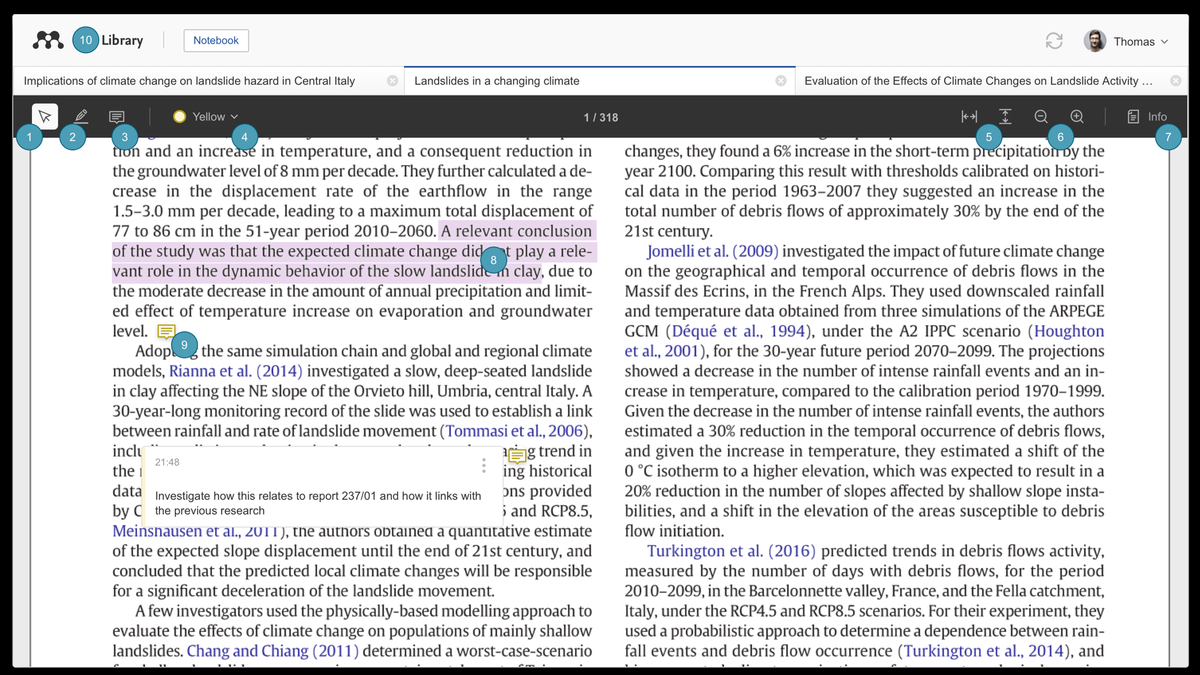
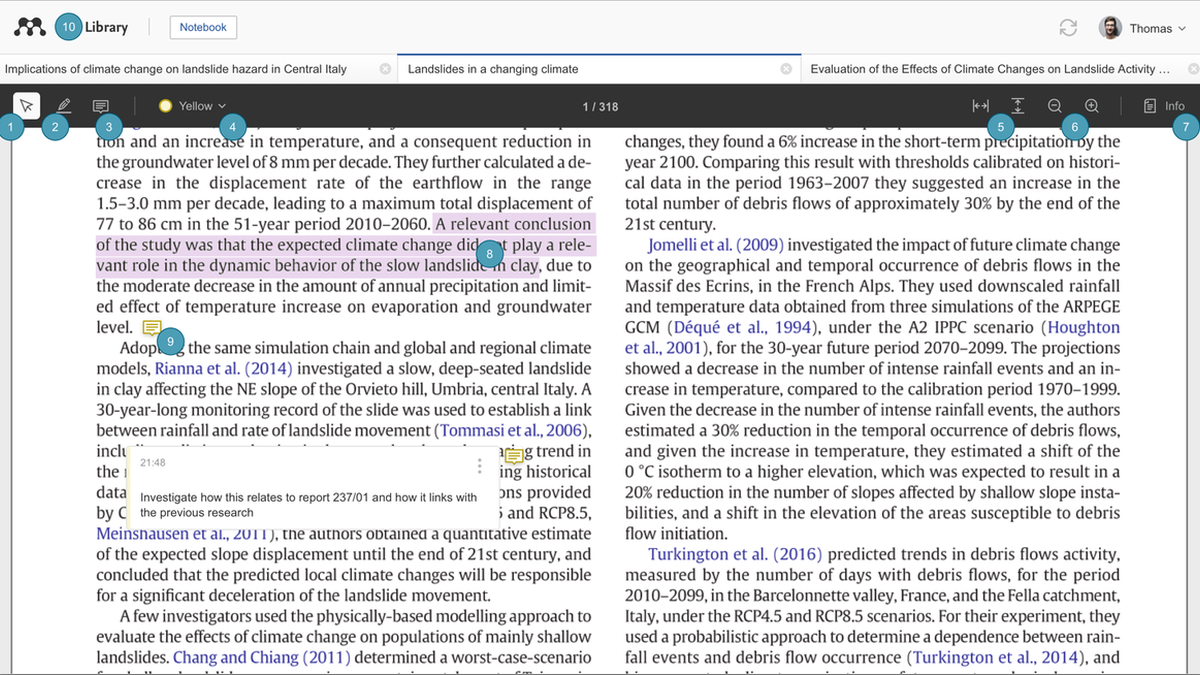
fix: rapikan copy dan crop screenshot deck

diff --git a/build.py b/build.py
@@ -82,7 +82,7 @@ s=slide(BG)
 pic(s,icon('MdLibraryBooks',FLOWER,PC,ON_PC),20.6,2.6,12,'Ilustrasi Mendeley')
 pic(s,icon('MdFormatQuote',CLOVER,TC,ON_TC),29.0,14.7,4.2,'Ikon kutipan')
 box(s,2.0,3.0,8.4,1.6,PC,0.8,name='label');tx(s,2.0,3.0,8.4,1.6,'Bahasa Indonesia',18,ON_PC,True,'center','middle')
-tx(s,2.0,4.4,18,7.8,'Implementasi aplikasi Mendeley dalam penulisan karya ilmiah',44,TX,True,name='judul')
+tx(s,2.0,4.4,18,7.8,'Implementasi Mendeley dalam penulisan karya ilmiah',44,TX,True,name='judul')
 tx(s,2.0,13.4,18,1,'Mata kuliah Bahasa Indonesia',20,P,True)
 notes(s,'Salam pembuka. Perkenalkan topik: cara Mendeley dipakai untuk menyusun kutipan dan daftar pustaka karya ilmiah.')
 # 2 anggota
@@ -100,16 +100,16 @@ page(s)
 notes(s,'Sebutkan anggota kelompok satu per satu sesuai urutan NIM.')
 # 3 latar belakang
 s=frame(0,'Sitasi manual rawan salah dan lambat')
-card3(s,4.0,8.2,[('MdFormatAlignLeft','Format berbeda','Gaya sitasi berbeda antarparagraf karena diketik satu per satu.'),
+card3(s,4.0,8.2,[('MdFormatAlignLeft','Format berbeda','Gaya sitasi bisa berbeda antarbagian karena diketik satu per satu.'),
  ('MdLinkOff','Sumber terlupa','Kutipan ada di naskah, tetapi rujukannya tidak masuk daftar pustaka.'),
  ('MdCompareArrows','Daftar tak cocok','Isi daftar pustaka tidak sama dengan sumber yang dikutip di teks.')],[(CARD,PC,ON_PC,TX)]*3)
 box(s,X0,13.0,W,5.0,PC,1.4)
 pic(s,icon('MdTimer',SUNNY,P,'FFFFFF'),X0+1.0,14.2,2.6,'Ikon waktu')
-tx(s,X0+4.4,13.4,W-5.4,4.2,'Menulis kutipan dan daftar pustaka secara manual menyita waktu. Sumber yang tidak tercantum dapat dinilai sebagai plagiarisme, sehingga kesalahan kecil pun berisiko.',22,ON_PC,False,valign='middle')
+tx(s,X0+4.4,13.4,W-5.4,4.2,'Menulis kutipan dan daftar pustaka secara manual memakan waktu. Sumber yang lupa dicantumkan bisa dianggap plagiarisme.',22,ON_PC,False,valign='middle')
 notes(s,'Mahasiswa sering salah pada tiga hal: format kutipan tidak seragam, sumber lupa dicantumkan, dan daftar pustaka tidak cocok dengan isi. Semua itu berkaitan dengan etika kutipan dan plagiarisme yang kita pelajari di mata kuliah ini.')
 # 4 rumusan
 s=frame(0,'Rumusan masalah dan tujuan')
-for k,(ic,hd,its,pitch,fill,col,nb,nc) in enumerate([('MdQuestionAnswer','Rumusan masalah',['Bagaimana Mendeley diimplementasikan dalam penulisan karya ilmiah?','Apa manfaat dan keterbatasan Mendeley bagi mahasiswa?'],4.2,CARD,TX,P,'FFFFFF'),
+for k,(ic,hd,its,pitch,fill,col,nb,nc) in enumerate([('MdQuestionAnswer','Rumusan masalah',['Bagaimana cara mengimplementasikan Mendeley dalam penulisan karya ilmiah?','Apa manfaat dan keterbatasan Mendeley bagi mahasiswa?'],4.2,CARD,TX,P,'FFFFFF'),
  ('MdFlag','Tujuan',['Menjelaskan fungsi Mendeley.','Menguraikan langkah penggunaannya.','Menilai manfaat dan keterbatasannya.'],2.9,TC,ON_TC,ON_TC,'FFFFFF')]):
     x=X0+k*14.4;box(s,x,4.0,13.6,14.0,fill,1.4)
     clipped(s,'mask-04-tanya.png' if k==0 else 'mask-04-tujuan.png',x,4.0,13.6,14.0,'Masking tanda')
@@ -124,48 +124,44 @@ box(s,X0,4.0,10.0,14.0,PC,1.4)
 clipped(s,'mask-05-tiga.png',X0,4.0,10.0,14.0,'Masking angka tiga')
 pic(s,icon('MdLibraryBooks',FLOWER,P,'FFFFFF'),X0+1.2,4.9,3.6,'Ikon Mendeley')
 tx(s,X0+1.0,9.4,8,5.8,'Mendeley adalah aplikasi pengelola referensi dan jejaring akademik.',20,ON_PC,True)
-tx(s,X0+1.0,15.2,8,2.4,'Mendeley Desktop dihentikan; Reference Manager menjadi fokus.',16,ON_PC)
+tx(s,X0+1.0,15.2,8,2.4,'Kita akan fokus pada Reference Manager.',16,ON_PC)
 for k,(f,hd,bd) in enumerate([('shot-rm-add.png','Mendeley Reference Manager','Pustaka pribadi untuk menyimpan, mengelompokkan, dan menganotasi PDF jurnal.'),
  ('shot-cite-panel.png','Mendeley Cite','Add-in Microsoft Word untuk menyisipkan kutipan dan membuat daftar pustaka.'),
  ('shot-web-importer.png','Web Importer','Ekstensi peramban untuk menyimpan referensi dari halaman web.')]):
     y=4.0+k*4.9;box(s,X0+10.8,y,17.2,4.2,CARD,1.2)
     shot(s,f,X0+11.5,y+0.5,5.6,hd)
     tx(s,X0+17.5,y+0.4,10.0,1.9,hd,20,TX,True);tx(s,X0+17.5,y+2.1,10.0,2.0,bd,16,MUT)
-tx(s,X0,18.3,20,0.5,'Sumber: Mendeley (n.d.); Mendeley Support (2025).',10,MUT)
-notes(s,'Mendeley dikembangkan Elsevier. Ada tiga komponen: Reference Manager untuk pustaka, Mendeley Cite untuk Word, dan Web Importer untuk peramban. Mendeley Desktop masih tersedia, tetapi pengembangannya sudah dihentikan; Reference Manager menjadi fokus.')
+notes(s,'Mendeley dikembangkan Elsevier. Ada tiga komponen: Reference Manager untuk pustaka, Mendeley Cite untuk Word, dan Web Importer untuk peramban. Tangkapan layar: Mendeley (n.d.); Mendeley Support (2025).')
 # 6 apa yang diolah
-s=frame(1,'Apa yang diolah Mendeley')
+s=frame(1,'Data yang diolah Mendeley')
 box(s,X0,4.0,W,4.6,P,1.4)
 pic(s,icon('MdDescription',SQUIRCLE,PC,ON_PC),X0+1.0,5.0,2.6,'Ikon metadata')
-tx(s,X0+4.4,4.0,W-5.4,4.6,'Mendeley memindahkan metadata referensi ke sitasi dan daftar pustaka. Isi dan ketepatan data tetap diperiksa penulis.',24,'FFFFFF',True,valign='middle')
+tx(s,X0+4.4,4.0,W-5.4,4.6,'Mendeley memakai metadata referensi untuk menyusun sitasi dan daftar pustaka. Penulis tetap harus memeriksa isi dan ketepatan datanya.',24,'FFFFFF',True,valign='middle')
 w3=(W-1.6)/3
 for k,(f,hd,bd) in enumerate([('shot-metadata.png','Metadata','Judul, penulis, tahun, DOI, dan nama jurnal menjadi bahan sitasi.'),
  ('shot-style.png','Gaya sitasi','Mendeley menerapkan gaya yang dipilih, misalnya APA atau IEEE.'),
- ('shot-bibliography.png','Daftar pustaka','Entri disusun otomatis dari metadata dan gaya yang sama.')]):
+ ('shot-bibliography.png','Daftar pustaka','Mendeley menyusun entri dari metadata dan gaya yang sama.')]):
     x=X0+k*(w3+0.8);box(s,x,9.4,w3,8.6,CARD,1.2)
     shot(s,f,x+0.5,9.9,w3-1.0,hd)
     tx(s,x+0.8,14.7,w3-1.6,1.2,hd,24,TX,True);tx(s,x+0.8,15.9,w3-1.6,2.0,bd,16,MUT)
-tx(s,X0,18.3,20,0.5,'Sumber: Mendeley Support (2025).',10,MUT)
-notes(s,'Mendeley mengolah metadata menjadi sitasi dan daftar pustaka. Jenis kutipan dan aturan tiap gaya dibahas Kelompok 4; fokus kita pada data yang diolah dan hasil yang dibuat Mendeley.')
+notes(s,'Mendeley mengolah metadata menjadi sitasi dan daftar pustaka. Jenis kutipan dan aturan tiap gaya dibahas Kelompok 4; fokus kita pada data yang diolah dan hasil yang dibuat Mendeley. Tangkapan layar: Mendeley Support (2025).')
 # 7 satu sumber dua keluaran
 s=frame(1,'Satu sumber, dua keluaran')
-tx(s,X0,3.3,W,0.9,'Metadata yang sama dipakai untuk sitasi dan daftar pustaka.',18,MUT)
+tx(s,X0,3.3,W,0.9,'Metadata yang sama menjadi bahan sitasi dan daftar pustaka.',18,MUT)
 box(s,X0,4.2,11.0,13.2,PC,1.4)
 tx(s,X0+0.8,4.8,9.4,0.8,'Satu sumber',14,ON_PC,True)
 shot(s,'shot-source.png',X0+0.8,5.7,9.6,'PDF jurnal dan metadata')
 tx(s,X0+0.8,11.3,9.4,0.8,'PDF jurnal dan metadata',16,ON_PC,True)
-tx(s,X0+0.8,12.1,9.4,3.2,'Penulis, tahun, judul, dan DOI menjadi bahan kedua keluaran.',16,ON_PC)
-for k,(f,hd,bd,fill,col) in enumerate([('shot-citation.png','Sitasi dalam teks','Mendeley Cite menyisipkan sitasi ke kalimat.',SC,ON_SC),
- ('shot-bib-menu.png','Daftar pustaka','Entri lengkap disusun dari metadata yang sama.',TC,ON_TC)]):
+tx(s,X0+0.8,12.1,9.4,3.2,'Penulis, tahun, judul, dan DOI dipakai untuk keduanya.',16,ON_PC)
+for k,(f,hd,bd,fill,col) in enumerate([('shot-citation.png','Sitasi dalam teks','Mendeley Cite menyisipkan sitasi ke dalam kalimat.',SC,ON_SC),
+ ('shot-bib-menu.png','Daftar pustaka','Mendeley menyusun entri lengkap dari metadata yang sama.',TC,ON_TC)]):
     y=4.2+k*6.9;box(s,16.2,y,16.2,6.3,fill,1.4)
     tx(s,17.0,y+0.5,7.2,0.7,hd,14,col,True)
     shot(s,f,17.0,y+1.4,7.2,hd)
     tx(s,24.8,y+1.6,7.0,2.6,bd,18,col)
     if k==0:pic(s,icon('MdArrowForward','none','x',P),15.45,7.1,0.7,'Panah')
     else:pic(s,icon('MdArrowForward','none','x',P),15.45,14.0,0.7,'Panah')
-tx(s,X0,17.7,20.0,0.5,'Yang tetap manual: periksa metadata dan sesuaikan gaya sitasi.',10,MUT)
-tx(s,X0,18.3,20.0,0.5,'Sumber: Mendeley Support (2025); tangkapan layar Mendeley.',10,MUT)
-notes(s,'Satu referensi di Library menjadi sumber untuk sitasi di Word dan entri daftar pustaka. Screenshot menunjukkan panel Cite dan menu Insert Bibliography; teori gaya sitasi tetap di Kelompok 4.')
+notes(s,'Satu referensi di Library menjadi sumber untuk sitasi di Word dan entri daftar pustaka. Tangkapan layar menunjukkan panel Cite dan menu Insert Bibliography; teori gaya sitasi tetap di Kelompok 4. Tangkapan layar: Mendeley Support (2025).')
 # 8 persiapan
 s=frame(2,'Persiapan: akun, aplikasi, dan add-in')
 w3=(W-1.6)/3
@@ -178,42 +174,39 @@ for k,(f,hd,bd) in enumerate([
     num(s,x+0.7,9.4,1.2,str(k+1),P,'FFFFFF')
     tx(s,x+2.1,9.3,w3-2.8,1.6,hd,22,[TX,ON_SC,TX][k],True)
     tx(s,x+0.8,10.9,w3-1.6,5.0,bd,18,[MUT,ON_SC,MUT][k])
-tx(s,X0,18.3,20,0.5,'Sumber: Mendeley (n.d.); UCL Library (2019) untuk tangkapan layar akun.',10,MUT)
-notes(s,'Tiga persiapan: membuat akun dengan email aktif, memasang Reference Manager dan add-in Mendeley Cite di Word, lalu memasang Web Importer di peramban.')
+notes(s,'Tiga persiapan: membuat akun dengan email aktif, memasang Reference Manager dan add-in Mendeley Cite di Word, lalu memasang Web Importer di peramban. Tangkapan layar akun: UCL Library (2019); tangkapan layar lain: Mendeley (n.d.).')
 # 9 langkah 1
 s=frame(2,'Langkah 1: kumpulkan referensi')
 for k,(f,hd,bd) in enumerate([
     ('shot-import.png','Impor PDF','Tambahkan PDF jurnal ke Library.'),
     ('shot-web-save.png','Simpan dari web','Gunakan Web Importer pada halaman artikel.'),
-    ('shot-details.png','Periksa metadata','Cek judul, penulis, tahun, dan DOI; koreksi yang salah.'),
+    ('shot-details.png','Periksa metadata','Periksa judul, penulis, tahun, dan DOI; koreksi yang salah.'),
     ('shot-organize.png','Rapikan','Kelompokkan dengan folder dan tag per bab atau topik.')]):
     x=X0+(k%2)*14.4;y=4.0+(k//2)*7.4;box(s,x,y,13.6,6.6,[CARD,SC,TC,CARD][k],1.3)
     shot(s,f,x+0.6,y+0.5,6.2,hd)
     tx(s,x+7.2,y+0.5,5.8,1.6,hd,20,TX,True)
     tx(s,x+7.2,y+2.2,5.8,3.8,bd,18,MUT)
-tx(s,X0,18.3,20,0.5,'Sumber: Mendeley Support (2025); tangkapan layar Mendeley.',10,MUT)
-notes(s,'Mulai dari mengumpulkan sumber. Metadata hasil impor sering keliru, jadi periksa judul, penulis, tahun, dan DOI satu per satu. Folder dan tag per bab memudahkan pencarian saat menulis.')
+notes(s,'Mulai dari mengumpulkan sumber. Metadata hasil impor sering keliru, jadi periksa judul, penulis, tahun, dan DOI satu per satu. Folder dan tag per bab memudahkan pencarian saat menulis. Tangkapan layar: Mendeley Support (2025).')
 # 10 langkah 2
 s=frame(2,'Langkah 2: baca dan catat')
 box(s,X0,4.0,17.6,14.0,CARD,1.4)
 for k,(f,hd,bd) in enumerate([
-    ('shot-highlight.png','Highlight dan anotasi','Tandai bagian penting langsung pada PDF.'),
-    ('shot-notes.png','Catatan per referensi','Tulis ide utama dengan kata sendiri sebelum menulis naskah.')]):
+    ('shot-highlight.png','Highlight dan anotasi','Kita bisa menandai bagian penting langsung di PDF.'),
+    ('shot-notes.png','Catatan per referensi','Tulis ide utama dengan kalimat sendiri sebelum menulis naskah.')]):
     y=4.9+k*6.6;shot(s,f,X0+0.8,y+0.5,6.6,hd)
     tx(s,X0+7.9,y+0.5,8.7,1.3,hd,22,TX,True)
     tx(s,X0+7.9,y+1.9,8.7,4.0,bd,18,MUT)
 box(s,X0+18.4,4.0,9.6,14.0,TC,1.4)
 clipped(s,'mask-10-panah.png',X0+18.4,4.0,9.6,14.0,'Masking panah hasil')
 pic(s,icon('MdLightbulb',SUNNY,SC,ON_TC),X0+19.6,5.2,4.2,'Ikon ide')
-tx(s,X0+19.4,10.6,7.6,1.4,'Hasilnya',24,ON_TC,True);tx(s,X0+19.4,12.2,7.6,5,'Bahan parafrasa untuk menyusun kutipan tidak langsung.',22,ON_TC)
-tx(s,X0,18.3,20,0.5,'Sumber: Mendeley Support (2025); tangkapan layar Mendeley.',10,MUT)
-notes(s,'Anotasi dan catatan membantu kita memahami sumber lebih dulu. Dari catatan itulah kutipan tidak langsung ditulis ulang dengan kalimat sendiri, lengkap dengan sitasinya.')
+tx(s,X0+19.4,10.6,7.6,1.4,'Hasilnya',24,ON_TC,True);tx(s,X0+19.4,12.2,7.6,5,'Catatan ini menjadi bahan untuk menulis kutipan tidak langsung.',22,ON_TC)
+notes(s,'Anotasi dan catatan membantu kita memahami sumber lebih dulu. Dari catatan itulah kutipan tidak langsung ditulis ulang dengan kalimat sendiri, lengkap dengan sitasinya. Tangkapan layar: Mendeley Support (2025).')
 # 11 langkah 3
 s=frame(2,'Langkah 3: sisipkan kutipan di Word')
 w4=(W-3*1.6)/4
 for k,(f,hd,bd) in enumerate([
     ('shot-addin.png','Buka add-in','Buka Mendeley Cite di Microsoft Word.'),
-    ('shot-cite.png','Sisipkan kutipan','Pilih referensi, lalu tempatkan pada kalimat.'),
+    ('shot-cite.png','Sisipkan kutipan','Pilih referensi, lalu sisipkan ke dalam kalimat.'),
     ('shot-style.png','Pilih gaya','Sesuaikan dengan pedoman kampus.'),
     ('shot-bibliography.png','Buat daftar pustaka','Daftar pustaka tersusun otomatis.')]):
     x=X0+k*(w4+1.6);box(s,x,4.4,w4,13.0,[CARD,SC,TC,PC][k],1.3)
@@ -224,12 +217,11 @@ for k,(f,hd,bd) in enumerate([
     tx(s,x+0.6,10.0,w4-1.2,2.2,hd,20,tcol,True)
     tx(s,x+0.6,12.2,w4-1.2,4.2,bd,18,bcol)
     if k<3:pic(s,icon('MdArrowForward','none','x',P),x+w4+0.3,10.2,1.0,'Panah')
-tx(s,X0,18.3,20,0.5,'Sumber: Mendeley Support (2025); tangkapan layar Mendeley.',10,MUT)
-notes(s,'Alurnya empat langkah di Word: buka Mendeley Cite, sisipkan kutipan, pilih gaya sesuai pedoman kampus, lalu buat daftar pustaka. Daftar pustaka ikut berubah otomatis saat kutipan ditambah atau dihapus.')
+notes(s,'Alurnya empat langkah di Word: buka Mendeley Cite, sisipkan kutipan, pilih gaya sesuai pedoman kampus, lalu buat daftar pustaka. Daftar pustaka ikut berubah otomatis saat kutipan ditambah atau dihapus. Tangkapan layar: Mendeley Support (2025).')
 # 12 kelebihan keterbatasan
 s=frame(3,'Kelebihan dan keterbatasan')
-for k,(ic,hd,its,fill,col,sh,fg) in enumerate([('MdCheckCircle','Kelebihan',['Hemat waktu','Format konsisten','Kutipan dan daftar pustaka sinkron','Penyimpanan dan sinkronisasi antarperangkat'],PC,ON_PC,P,'FFFFFF'),
- ('MdWarning','Keterbatasan',['Metadata impor perlu dicek manual','Gaya sitasi kampus tertentu mungkin tidak tersedia','Penyimpanan gratis 2 GB','Kesalahan tetap menjadi tanggung jawab penulis'],EC,ON_EC,'F56965','FFFFFF')]):
+for k,(ic,hd,its,fill,col,sh,fg) in enumerate([('MdCheckCircle','Kelebihan',['Hemat waktu','Gaya sitasi konsisten','Kutipan dan daftar pustaka sinkron','Penyimpanan dan sinkronisasi lintas perangkat'],PC,ON_PC,P,'FFFFFF'),
+ ('MdWarning','Keterbatasan',['Metadata hasil impor perlu diperiksa','Gaya sitasi kampus tertentu belum tentu tersedia','Penyimpanan gratis 2 GB','Penulis tetap bertanggung jawab atas kesalahan'],EC,ON_EC,'F56965','FFFFFF')]):
     x=X0+k*14.4;box(s,x,4.0,13.6,14.0,fill,1.4)
     pic(s,icon(ic,[CLOVER,BURST][k],sh,fg),x+0.9,4.8,2.2,hd);tx(s,x+3.6,4.8,9.4,2.2,hd,24,col,True,valign='middle')
     pill=PILL_PC if k==0 else PILL_EC
@@ -237,22 +229,21 @@ for k,(ic,hd,its,fill,col,sh,fg) in enumerate([('MdCheckCircle','Kelebihan',['He
         y=7.7+j*2.5
         box(s,x+0.8,y,12.0,1.9,pill,0.95,name='kapsul')
         tx(s,x+1.4,y,11.2,1.9,t,16,col,valign='middle')
-tx(s,X0,18.3,20,0.5,'Sumber: Mendeley Support (2025).',10,MUT)
-notes(s,'Kelebihan: hemat waktu, format konsisten, dan sinkron. Keterbatasannya: metadata perlu dicek, gaya sitasi kampus tertentu mungkin tidak tersedia, penyimpanan gratis 2 GB, dan kesalahan tetap menjadi tanggung jawab penulis.')
+notes(s,'Kelebihan: hemat waktu, gaya sitasi konsisten, dan sinkron. Keterbatasannya: metadata hasil impor perlu diperiksa, gaya sitasi kampus tertentu belum tentu tersedia, penyimpanan gratis 2 GB, dan penulis tetap bertanggung jawab atas kesalahan.')
 # 13 kesimpulan (terang)
 s=frame(4,'Kesimpulan')
 w3=13.6
 for k,(ic,hd,bd,fill,col,ib,ifg) in enumerate([
  ('MdCheckCircle','Implementasinya','Impor referensi, sisipkan sitasi di Word, lalu buat daftar pustaka otomatis.',PC,ON_PC,P,ON_P),
- ('MdSchool','Manfaat dan batasannya','Format menjadi konsisten, tetapi metadata dan kaidah tetap harus diperiksa.',CARD,TX,SC,ON_SC)]):
+ ('MdSchool','Manfaat dan batasannya','Gaya sitasi menjadi konsisten, tetapi metadata dan pedoman kampus tetap perlu diperiksa.',CARD,TX,SC,ON_SC)]):
     x=X0+k*14.4;box(s,x,4.6,w3,12.6,fill,1.4)
     pic(s,icon(ic,[COOKIE,CLOVER][k],ib,ifg),x+0.9,5.6,3.8,hd)
     tx(s,x+0.9,10.0,w3-1.8,2.6,hd,28,col,True)
     tx(s,x+0.9,13.0,w3-1.8,3.6,bd,20,col)
-notes(s,'Jawab kedua rumusan: implementasinya lewat impor, sitasi, dan daftar pustaka otomatis; manfaatnya format konsisten, tetapi metadata dan kaidah tetap harus diperiksa.')
+notes(s,'Jawab kedua rumusan: implementasinya lewat impor, sitasi, dan daftar pustaka otomatis; manfaatnya gaya sitasi konsisten, tetapi metadata dan pedoman kampus tetap perlu diperiksa.')
 # 14 penutup
 s=frame(4,'')
-tx(s,X0,6.6,19,4.0,'Terima kasih',72,TX,True)
+tx(s,6.4,6.6,16.0,4.0,'Terima kasih',72,TX,True)
 pic(s,icon('MdWavingHand',FLOWER,PC,ON_PC),23.0,4.8,8.4,'Ikon penutup')
 notes(s,'Tutup dengan terima kasih.')
 # --- animasi per objek: group dianimasikan lewat proxy, lalu targetnya dipindah ke group ---

diff --git a/docs/GUIDELINE.md b/docs/GUIDELINE.md
@@ -49,9 +49,9 @@ Deck 14 slide untuk mata kuliah Bahasa Indonesia: Mendeley sebagai alat bantu ku
 - Slide 6: batas Mendeley, bukan teori sitasi; teori jenis sitasi ada di Kelompok 4.
 - Slide 7: contoh satu sumber menjadi sitasi dan daftar pustaka; jangan menambah teori jenis sitasi atau aturan APA/IEEE.
 - Slide 4, 5, 10: masking memakai `assets/mask-*.png`; letakkan setelah kartu dan sebelum ikon atau teks. Rasio PNG harus sama dengan kartu; `build.py` gagal jika berbeda, jadi jangan meregangkan mask.
-- Slide 5 sampai 11: screenshot Mendeley 16:9; tangkapan layar akun memakai UCL Library (2019); jangan regangkan; kredit di slide.
+- Slide 5 sampai 11: screenshot Mendeley 16:9; tangkapan layar akun memakai UCL Library (2019); jangan regangkan; crop bilah hitam; kredit di speaker notes.
 - Slide 13: kesimpulan; slide 14: penutup. Keduanya memakai rail Penutup dan latar terang; jangan tambahkan gradasi latar.
-- Verifikasi ke situs resmi Mendeley: status Desktop dan batas penyimpanan gratis.
+- Verifikasi ke situs resmi Mendeley: batas penyimpanan gratis dan ketersediaan fitur.
 
 ## Catatan teknis OfficeCLI
 - Jalankan dengan `OFFICECLI_NO_AUTO_RESIDENT=1` agar hasil langsung tertulis ke disk.
